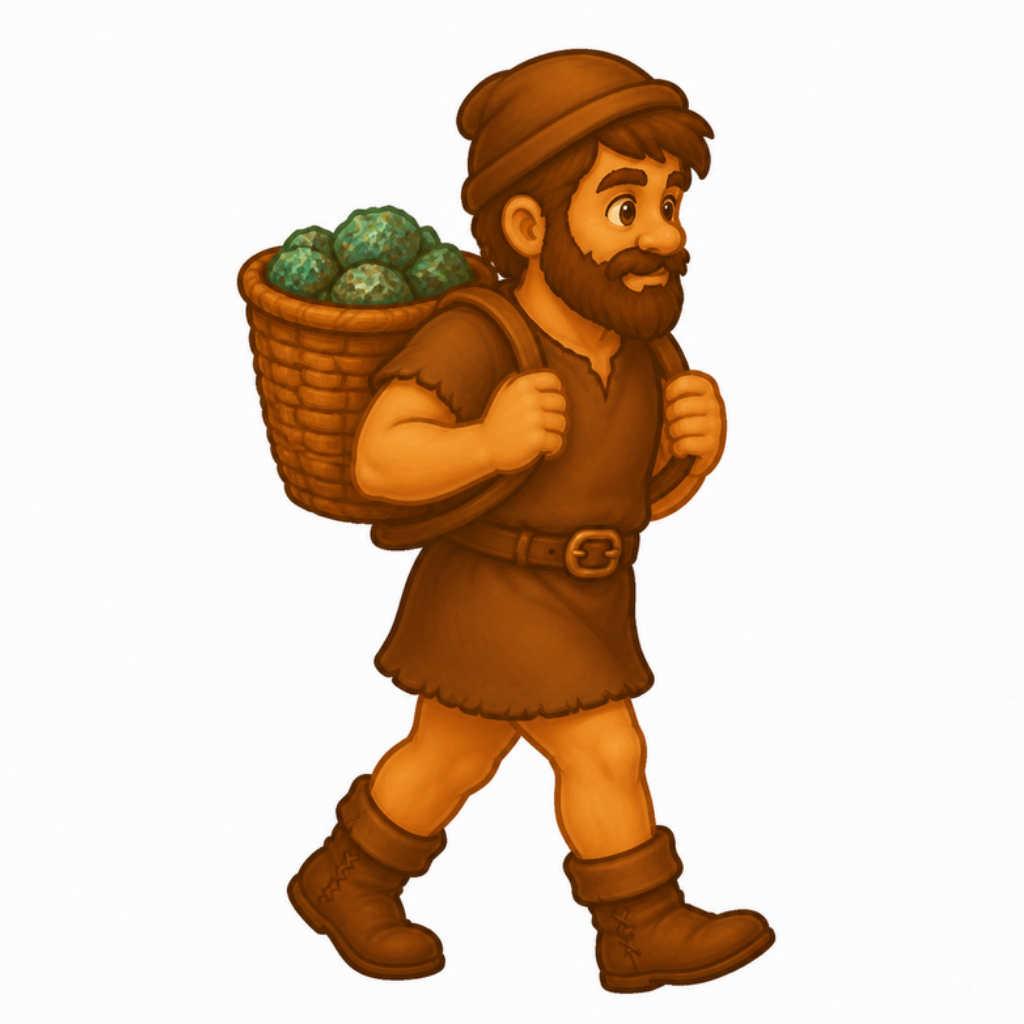
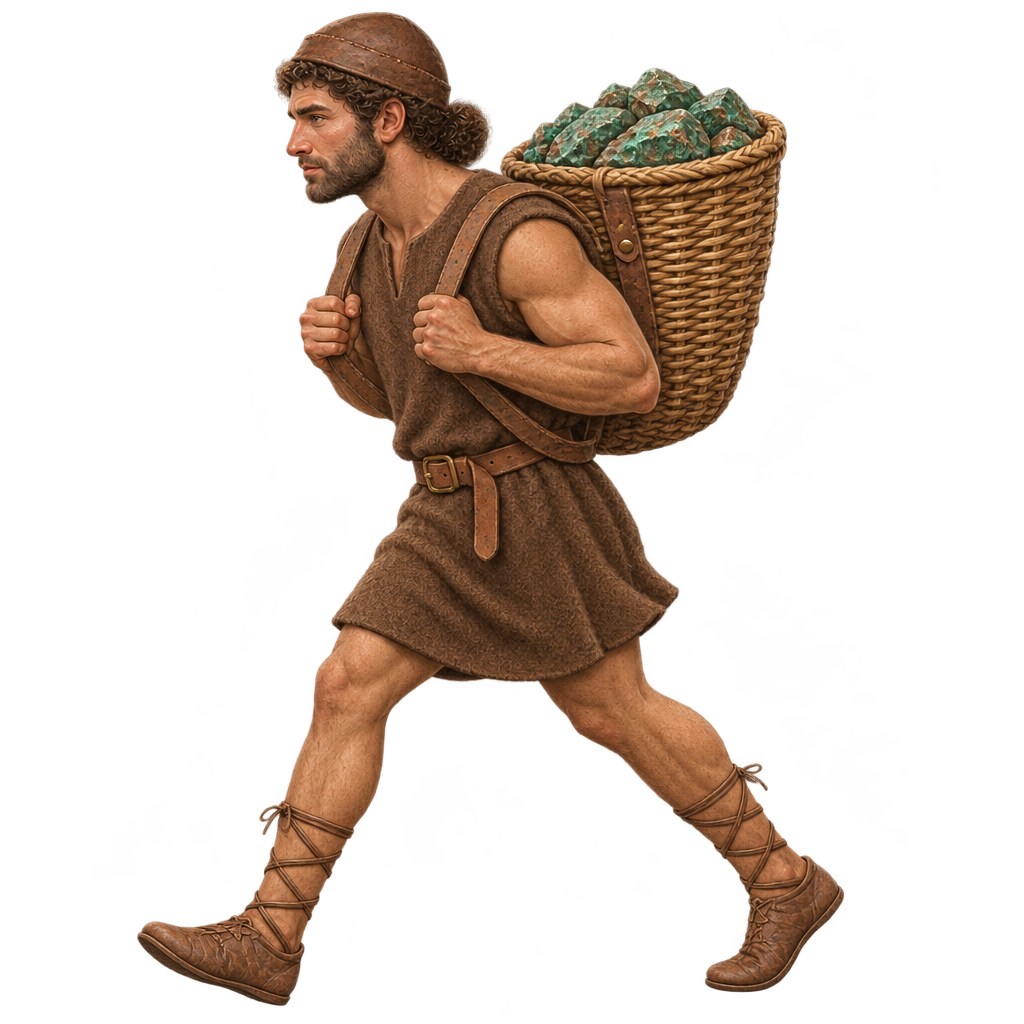
V247: Fischer im Einbaum, Bergmann mit Korb, Händler und Südhändler im neuen Stil
Claude-Session: https://claude.ai/code/session_01W1n1hf4HzmNEgHroYYEZqd

diff --git a/neu/js/leben.js b/neu/js/leben.js
@@ -899,7 +899,7 @@ function drawBoat(w, t) {
     ctx.translate(p.x, p.y + rock * 0.4);
     if (w.face < 0) ctx.scale(-1, 1);
     ctx.rotate(Math.sin(t * 1.8 + w.ph) * 0.02);
-    ctx.drawImage(pic, -bw / 2, -bh * 0.82, bw, bh);
+    ctx.drawImage(pic, -bw / 2, -bh * (pull ? 0.894 : 0.825), bw, bh);   // Wasserlinie am Rumpf (V247: Paddel ragt beim Vorderbild unter das Boot)
     ctx.restore();
     const q = pull ? (cyc - 0.5) / 0.5 : cyc / 0.5;
     if (q < 0.25) splash(p.x + (pull ? 0.28 : -0.33) * bw * w.face, p.y + 1 * z, z, 0.8);
@@ -1272,7 +1272,7 @@ function poseMix(n, cyc, own) {
 }
 
 // Wo beginnen die Beine (Anteil der Bildhöhe von oben)? Für die Laufbewegung.
-const LEGS = { 'mensch-mann': 0.65, 'mensch-frau': 0.64, 'mensch-mann-leer': 0.65, 'mensch-frau-leer': 0.64, 'mensch-jaeger': 0.66, 'mensch-jaeger-bogen-1': 0.7, 'mensch-jaeger-beute': 0.66, 'mensch-tongrube-korb': 0.65, 'mensch-bergmann-korb': 0.64, 'mensch-mann-stein': 0.65, 'mensch-hirte': 0.7, hirsch: 0.7, ziege: 0.69, schaf: 0.7, rind: 0.66, mammut: 0.76 };   // Steinzeit-Menschen: Scenario (V244), Saum des Fellkleids
+const LEGS = { 'mensch-mann': 0.65, 'mensch-frau': 0.64, 'mensch-mann-leer': 0.65, 'mensch-frau-leer': 0.64, 'mensch-jaeger': 0.66, 'mensch-jaeger-bogen-1': 0.7, 'mensch-jaeger-beute': 0.66, 'mensch-tongrube-korb': 0.65, 'mensch-bergmann-korb': 0.67, 'mensch-mann-stein': 0.65, 'mensch-hirte': 0.7, hirsch: 0.7, ziege: 0.69, schaf: 0.7, rind: 0.66, mammut: 0.76 };   // Steinzeit-Menschen: Scenario (V244), Saum des Fellkleids
 
 // Figur mit Schatten zeichnen. Bilder schauen nach links; face = -1 spiegelt nach rechts.
 // step = Laufphase (Bogenmaß) oder null im Stehen: Dann schwingen vordere und hintere Beine gegeneinander.

diff --git a/neu/index.html b/neu/index.html
@@ -3,7 +3,7 @@
 <head>
   <meta charset="UTF-8">
   <meta name="viewport" content="width=device-width, initial-scale=1, maximum-scale=1, user-scalable=no, viewport-fit=cover">
-  <meta name="app-version" content="246">
+  <meta name="app-version" content="247">
   <meta name="theme-color" content="#3d7a2a">
   <meta name="color-scheme" content="only light">
   <meta name="apple-mobile-web-app-capable" content="yes">

diff --git a/neu/js/daten.js b/neu/js/daten.js
@@ -2,7 +2,7 @@
 // Epochia – alle Spieldaten (Zahlen zum Feinjustieren stehen hier oben, die Logik liest nur daraus).
 // Pläne: docs/konzept-neu.md und docs/epoche-1-steinzeit.md
 
-const APP_VERSION = 246;
+const APP_VERSION = 247;
 
 const CONFIG = {
   mapSize: 512,           // Felder je Seite, zentral änderbar (Vielfaches von 16; 64 bis Version 21, 128 bis Version 54 – alte Karten liegen in der Mitte)

diff --git a/neu/service-worker.js b/neu/service-worker.js
@@ -1,6 +1,6 @@
 // Epochia – offline spielen. Bei Änderungen die Versionsnummer erhöhen (gleiche Nummer wie
 // APP_VERSION in js/daten.js und <meta name="app-version"> in index.html).
-const CACHE = 'v246';
+const CACHE = 'v247';
 const ASSETS = [
   './',
   'index.html',

diff --git a/docs/wuensche.md b/docs/wuensche.md
@@ -25,8 +25,9 @@ Stichworte reichen, z. B. „- Farm zeigt falsche Arbeiterzahl nach dem Verschie
 
 ## Erledigt
 
+- 20.11.2026, V247: Letzte alte Figuren im neuen Stil – Fischer im Einbaum (zwei Paddelbilder, leeres Boot), Bergmann mit Erzkorb (schaut jetzt wie alle nach links), Händler und Südhändler.
 - 20.11.2026, V246: Tiere im neuen Stil – Hirsch, Mammut, Ziege, Esel mit Amphoren neu; Schaf und Rind mit eigenen Bildern statt eingefärbter Ziege.
-- 20.11.2026, V245: Bronzezeit-Arbeiter im neuen Stil – 14 Berufe mit je drei Bewegungsbildern in Wolltunika bzw. Leinenkleid, Gürtelfarbe je Beruf (offen nur der Bergmann mit Korb beim Tragen).
+- 20.11.2026, V245: Bronzezeit-Arbeiter im neuen Stil – 14 Berufe mit je drei Bewegungsbildern in Wolltunika bzw. Leinenkleid, Gürtelfarbe je Beruf.
 - 20.11.2026, V242: Steinkreis-Bauphasen (Bauplatz und halb fertig) ohne Sockel im neuen Stil, mit Winterbildern.
 - 20.11.2026, V241: Tongrube mit neuem Bild ohne Sockel (drei Ansichten plus Winter), die Wasserseite in der Farbe des Flusses.
 - 20.11.2026, V240: Neue Steinzeit-Bilder aus Scenario ohne Sockel (22 Gebäude, Vorder- und Rückansicht, Sommer und Winter mit Sommerfarben und Schnee); 12 Arbeitsplätze mit Zaun und Tor, das Tor dreht sich beim Bauen zum Weg. Tongrube behält vorerst ihr altes Bild (steht halb im Wasser, neues Bild mit Wasser folgt).
